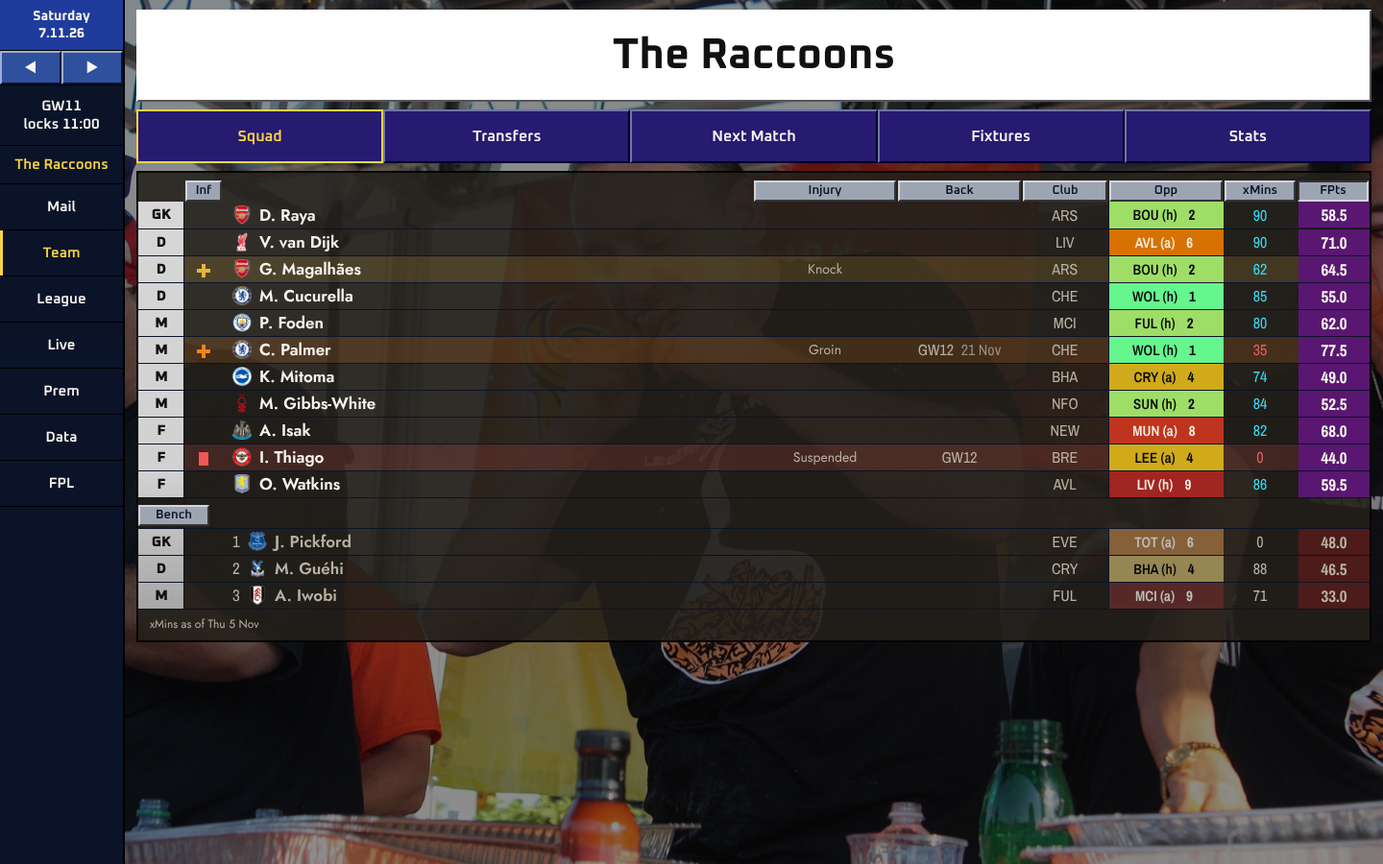
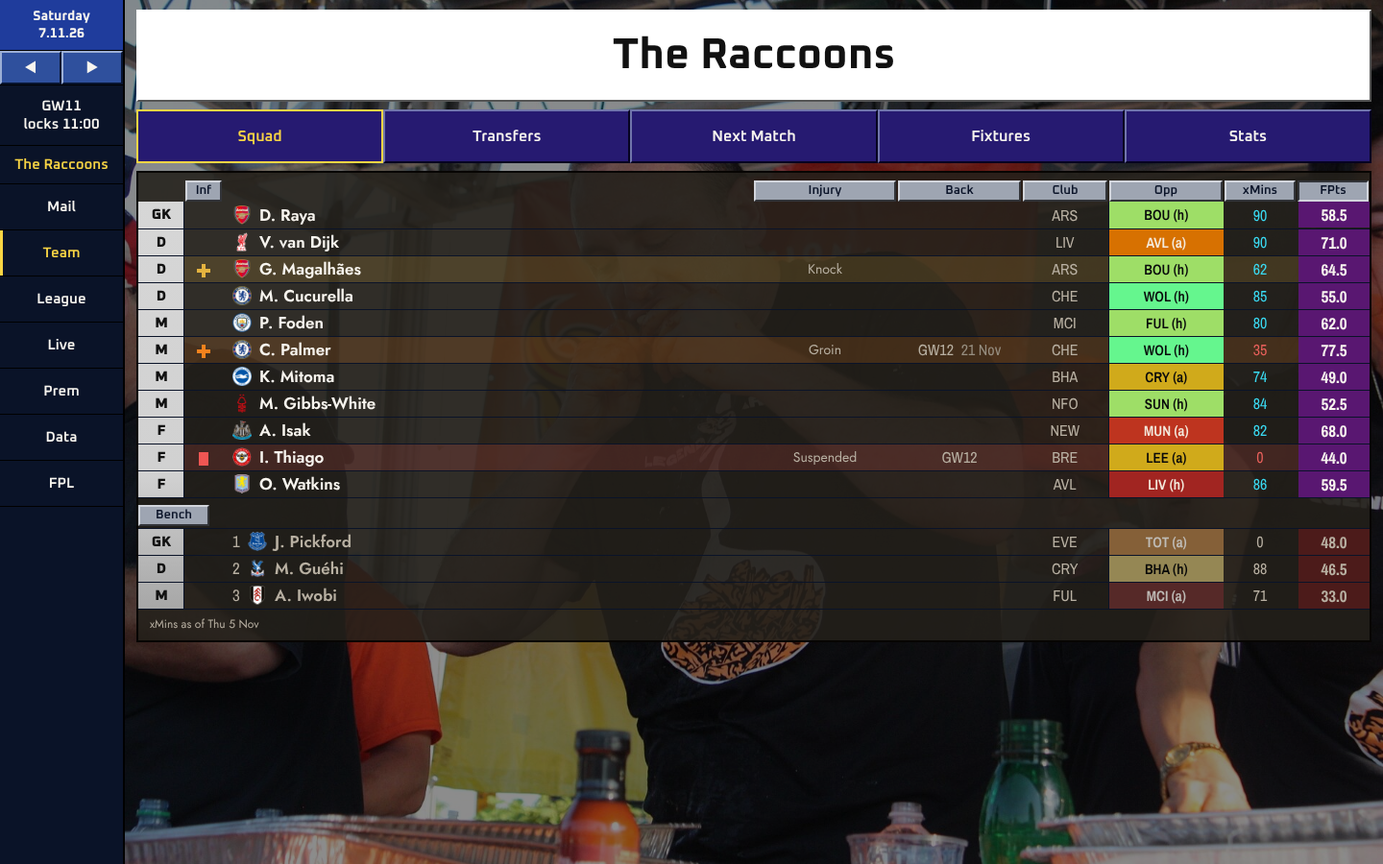
docs(design): a fixture tile is the club and h/a, no number
Craig, 7 Nov 2026: "Stop adding numbers to the fixture tile, team and h/a".
Both Squad boards: the rank is off the tile, the phone's tiles get h/a back,
and the difficulty's words go to the tile's title.

Claude-Session: https://claude.ai/code/session_014rg9sPGDLfmZnHAPNmxYbY

Changed region(s): [[0.8125, 0.2178, 0.875, 0.5911], [0.8125, 0.6222, 0.875, 0.7156]]

diff --git a/docs/design/boards/Squad.html b/docs/design/boards/Squad.html
@@ -107,6 +107,6 @@ tr.plate span { --face: var(--color-face); background: var(--face); --light: col
 </nav>
 <section class="panel squad"><div class="lead"><table>
 <colgroup><col style="width:48px"><col style="width:40px"><col><col style="width:150px"><col style="width:130px"><col style="width:90px"><col style="width:120px"><col style="width:76px"><col style="width:76px"></colgroup>
-<thead><tr><th scope="col"><span class="sr-only">Pos</span></th><th scope="col"><span class="bevel">Inf</span></th><th scope="col"><span class="sr-only">Player</span></th><th scope="col"><span class="bevel">Injury</span></th><th scope="col"><span class="bevel">Back</span></th><th scope="col"><span class="bevel">Club</span></th><th scope="col"><span class="bevel">Opp</span></th><th scope="col"><span class="bevel">xMins</span></th><th scope="col"><span class="bevel sorted">FPts</span></th></tr></thead><tbody><tr><td class="cm-index pos">GK</td><td class="inf"></td><td class="name"><img class="crest" src="../../../apps/companion/public/crests/t3.png" alt="">D. Raya</td><td class="note quiet"></td><td class="fig back quiet"></td><td class="club">ARS</td><td class="opp" title="BOU (h), easy" style="background:var(--color-ease-2);color:#08090b">BOU (h) <b class="rank">2</b></td><td class="fig info">90</td><td class="for"><b>58.5</b></td></tr><tr><td class="cm-index pos">D</td><td class="inf"></td><td class="name"><img class="crest" src="../../../apps/companion/public/crests/t14.png" alt="">V. van Dijk</td><td class="note quiet"></td><td class="fig back quiet"></td><td class="club">LIV</td><td class="opp" title="AVL (a), hard" style="background:var(--color-ease-6);color:var(--color-cream)">AVL (a) <b class="rank">6</b></td><td class="fig info">90</td><td class="for"><b>71.0</b></td></tr><tr style="background:oklch(0.79 0.14 85 / 0.16)"><td class="cm-index pos">D</td><td class="inf"><svg width="16" height="16" viewBox="0 0 16 16" role="img" aria-label="Slight doubt"><path d="M6 1h4v5h5v4h-5v5H6v-5H1V6h5z" fill="var(--color-doubt-slight)"/></svg></td><td class="name"><img class="crest" src="../../../apps/companion/public/crests/t3.png" alt="">G. Magalhães</td><td class="note quiet">Knock</td><td class="fig back quiet"></td><td class="club">ARS</td><td class="opp" title="BOU (h), easy" style="background:var(--color-ease-2);color:#08090b">BOU (h) <b class="rank">2</b></td><td class="fig info">62</td><td class="for"><b>64.5</b></td></tr><tr><td class="cm-index pos">D</td><td class="inf"></td><td class="name"><img class="crest" src="../../../apps/companion/public/crests/t8.png" alt="">M. Cucurella</td><td class="note quiet"></td><td class="fig back quiet"></td><td class="club">CHE</td><td class="opp" title="WOL (h), very easy" style="background:var(--color-ease-1);color:#08090b">WOL (h) <b class="rank">1</b></td><td class="fig info">85</td><td class="for"><b>55.0</b></td></tr><tr><td class="cm-index pos">M</td><td class="inf"></td><td class="name"><img class="crest" src="../../../apps/companion/public/crests/t43.png" alt="">P. Foden</td><td class="note quiet"></td><td class="fig back quiet"></td><td class="club">MCI</td><td class="opp" title="FUL (h), easy" style="background:var(--color-ease-2);color:#08090b">FUL (h) <b class="rank">2</b></td><td class="fig info">80</td><td class="for"><b>62.0</b></td></tr><tr style="background:oklch(0.72 0.17 55 / 0.16)"><td class="cm-index pos">M</td><td class="inf"><svg width="16" height="16" viewBox="0 0 16 16" role="img" aria-label="Doubtful"><path d="M6 1h4v5h5v4h-5v5H6v-5H1V6h5z" fill="var(--color-doubt-major)"/></svg></td><td class="name"><img class="crest" src="../../../apps/companion/public/crests/t8.png" alt="">C. Palmer</td><td class="note quiet">Groin</td><td class="fig back quiet">GW12 <span class="day">21 Nov</span></td><td class="club">CHE</td><td class="opp" title="WOL (h), very easy" style="background:var(--color-ease-1);color:#08090b">WOL (h) <b class="rank">1</b></td><td class="fig bad">35</td><td class="for"><b>77.5</b></td></tr><tr><td class="cm-index pos">M</td><td class="inf"></td><td class="name"><img class="crest" src="../../../apps/companion/public/crests/t36.png" alt="">K. Mitoma</td><td class="note quiet"></td><td class="fig back quiet"></td><td class="club">BHA</td><td class="opp" title="CRY (a), fair" style="background:var(--color-ease-4);color:#08090b">CRY (a) <b class="rank">4</b></td><td class="fig info">74</td><td class="for"><b>49.0</b></td></tr><tr><td class="cm-index pos">M</td><td class="inf"></td><td class="name"><img class="crest" src="../../../apps/companion/public/crests/t17.png" alt="">M. Gibbs-White</td><td class="note quiet"></td><td class="fig back quiet"></td><td class="club">NFO</td><td class="opp" title="SUN (h), easy" style="background:var(--color-ease-2);color:#08090b">SUN (h) <b class="rank">2</b></td><td class="fig info">84</td><td class="for"><b>52.5</b></td></tr><tr><td class="cm-index pos">F</td><td class="inf"></td><td class="name"><img class="crest" src="../../../apps/companion/public/crests/t4.png" alt="">A. Isak</td><td class="note quiet"></td><td class="fig back quiet"></td><td class="club">NEW</td><td class="opp" title="MUN (a), very hard" style="background:var(--color-ease-8);color:var(--color-cream)">MUN (a) <b class="rank">8</b></td><td class="fig info">82</td><td class="for"><b>68.0</b></td></tr><tr style="background:oklch(0.66 0.19 25 / 0.16)"><td class="cm-index pos">F</td><td class="inf"><svg width="12" height="16" viewBox="0 0 12 16" role="img" aria-label="Suspended"><rect x="1" y="1" width="10" height="14" fill="var(--color-doubt-out)"/></svg></td><td class="name"><img class="crest" src="../../../apps/companion/public/crests/t94.png" alt="">I. Thiago</td><td class="note quiet">Suspended</td><td class="fig back quiet">GW12</td><td class="club">BRE</td><td class="opp" title="LEE (a), fair" style="background:var(--color-ease-4);color:#08090b">LEE (a) <b class="rank">4</b></td><td class="fig bad">0</td><td class="for"><b>44.0</b></td></tr><tr><td class="cm-index pos">F</td><td class="inf"></td><td class="name"><img class="crest" src="../../../apps/companion/public/crests/t7.png" alt="">O. Watkins</td><td class="note quiet"></td><td class="fig back quiet"></td><td class="club">AVL</td><td class="opp" title="LIV (h), very hard" style="background:var(--color-ease-9);color:var(--color-cream)">LIV (h) <b class="rank">9</b></td><td class="fig info">86</td><td class="for"><b>59.5</b></td></tr><tr class="plate"><td colspan="9"><span class="bevel">Bench</span></td></tr><tr class="greyed"><td class="cm-index pos">GK</td><td class="inf"></td><td class="name"><span class="order">1</span><img class="crest" src="../../../apps/companion/public/crests/t11.png" alt="">J. Pickford</td><td class="note quiet"></td><td class="fig back quiet"></td><td class="club">EVE</td><td class="opp" title="TOT (a), hard" style="background:var(--color-ease-6);color:var(--color-cream)">TOT (a) <b class="rank">6</b></td><td class="fig quiet">0</td><td class="for"><b>48.0</b></td></tr><tr class="greyed"><td class="cm-index pos">D</td><td class="inf"></td><td class="name"><span class="order">2</span><img class="crest" src="../../../apps/companion/public/crests/t31.png" alt="">M. Guéhi</td><td class="note quiet"></td><td class="fig back quiet"></td><td class="club">CRY</td><td class="opp" title="BHA (h), fair" style="background:var(--color-ease-4);color:#08090b">BHA (h) <b class="rank">4</b></td><td class="fig quiet">88</td><td class="for"><b>46.5</b></td></tr><tr class="greyed"><td class="cm-index pos">M</td><td class="inf"></td><td class="name"><span class="order">3</span><img class="crest" src="../../../apps/companion/public/crests/t54.png" alt="">A. Iwobi</td><td class="note quiet"></td><td class="fig back quiet"></td><td class="club">FUL</td><td class="opp" title="MCI (a), very hard" style="background:var(--color-ease-9);color:var(--color-cream)">MCI (a) <b class="rank">9</b></td><td class="fig quiet">71</td><td class="for"><b>33.0</b></td></tr></tbody></table>
+<thead><tr><th scope="col"><span class="sr-only">Pos</span></th><th scope="col"><span class="bevel">Inf</span></th><th scope="col"><span class="sr-only">Player</span></th><th scope="col"><span class="bevel">Injury</span></th><th scope="col"><span class="bevel">Back</span></th><th scope="col"><span class="bevel">Club</span></th><th scope="col"><span class="bevel">Opp</span></th><th scope="col"><span class="bevel">xMins</span></th><th scope="col"><span class="bevel sorted">FPts</span></th></tr></thead><tbody><tr><td class="cm-index pos">GK</td><td class="inf"></td><td class="name"><img class="crest" src="../../../apps/companion/public/crests/t3.png" alt="">D. Raya</td><td class="note quiet"></td><td class="fig back quiet"></td><td class="club">ARS</td><td class="opp" title="BOU (h), easy" style="background:var(--color-ease-2);color:#08090b">BOU (h)</td><td class="fig info">90</td><td class="for"><b>58.5</b></td></tr><tr><td class="cm-index pos">D</td><td class="inf"></td><td class="name"><img class="crest" src="../../../apps/companion/public/crests/t14.png" alt="">V. van Dijk</td><td class="note quiet"></td><td class="fig back quiet"></td><td class="club">LIV</td><td class="opp" title="AVL (a), hard" style="background:var(--color-ease-6);color:var(--color-cream)">AVL (a)</td><td class="fig info">90</td><td class="for"><b>71.0</b></td></tr><tr style="background:oklch(0.79 0.14 85 / 0.16)"><td class="cm-index pos">D</td><td class="inf"><svg width="16" height="16" viewBox="0 0 16 16" role="img" aria-label="Slight doubt"><path d="M6 1h4v5h5v4h-5v5H6v-5H1V6h5z" fill="var(--color-doubt-slight)"/></svg></td><td class="name"><img class="crest" src="../../../apps/companion/public/crests/t3.png" alt="">G. Magalhães</td><td class="note quiet">Knock</td><td class="fig back quiet"></td><td class="club">ARS</td><td class="opp" title="BOU (h), easy" style="background:var(--color-ease-2);color:#08090b">BOU (h)</td><td class="fig info">62</td><td class="for"><b>64.5</b></td></tr><tr><td class="cm-index pos">D</td><td class="inf"></td><td class="name"><img class="crest" src="../../../apps/companion/public/crests/t8.png" alt="">M. Cucurella</td><td class="note quiet"></td><td class="fig back quiet"></td><td class="club">CHE</td><td class="opp" title="WOL (h), very easy" style="background:var(--color-ease-1);color:#08090b">WOL (h)</td><td class="fig info">85</td><td class="for"><b>55.0</b></td></tr><tr><td class="cm-index pos">M</td><td class="inf"></td><td class="name"><img class="crest" src="../../../apps/companion/public/crests/t43.png" alt="">P. Foden</td><td class="note quiet"></td><td class="fig back quiet"></td><td class="club">MCI</td><td class="opp" title="FUL (h), easy" style="background:var(--color-ease-2);color:#08090b">FUL (h)</td><td class="fig info">80</td><td class="for"><b>62.0</b></td></tr><tr style="background:oklch(0.72 0.17 55 / 0.16)"><td class="cm-index pos">M</td><td class="inf"><svg width="16" height="16" viewBox="0 0 16 16" role="img" aria-label="Doubtful"><path d="M6 1h4v5h5v4h-5v5H6v-5H1V6h5z" fill="var(--color-doubt-major)"/></svg></td><td class="name"><img class="crest" src="../../../apps/companion/public/crests/t8.png" alt="">C. Palmer</td><td class="note quiet">Groin</td><td class="fig back quiet">GW12 <span class="day">21 Nov</span></td><td class="club">CHE</td><td class="opp" title="WOL (h), very easy" style="background:var(--color-ease-1);color:#08090b">WOL (h)</td><td class="fig bad">35</td><td class="for"><b>77.5</b></td></tr><tr><td class="cm-index pos">M</td><td class="inf"></td><td class="name"><img class="crest" src="../../../apps/companion/public/crests/t36.png" alt="">K. Mitoma</td><td class="note quiet"></td><td class="fig back quiet"></td><td class="club">BHA</td><td class="opp" title="CRY (a), fair" style="background:var(--color-ease-4);color:#08090b">CRY (a)</td><td class="fig info">74</td><td class="for"><b>49.0</b></td></tr><tr><td class="cm-index pos">M</td><td class="inf"></td><td class="name"><img class="crest" src="../../../apps/companion/public/crests/t17.png" alt="">M. Gibbs-White</td><td class="note quiet"></td><td class="fig back quiet"></td><td class="club">NFO</td><td class="opp" title="SUN (h), easy" style="background:var(--color-ease-2);color:#08090b">SUN (h)</td><td class="fig info">84</td><td class="for"><b>52.5</b></td></tr><tr><td class="cm-index pos">F</td><td class="inf"></td><td class="name"><img class="crest" src="../../../apps/companion/public/crests/t4.png" alt="">A. Isak</td><td class="note quiet"></td><td class="fig back quiet"></td><td class="club">NEW</td><td class="opp" title="MUN (a), very hard" style="background:var(--color-ease-8);color:var(--color-cream)">MUN (a)</td><td class="fig info">82</td><td class="for"><b>68.0</b></td></tr><tr style="background:oklch(0.66 0.19 25 / 0.16)"><td class="cm-index pos">F</td><td class="inf"><svg width="12" height="16" viewBox="0 0 12 16" role="img" aria-label="Suspended"><rect x="1" y="1" width="10" height="14" fill="var(--color-doubt-out)"/></svg></td><td class="name"><img class="crest" src="../../../apps/companion/public/crests/t94.png" alt="">I. Thiago</td><td class="note quiet">Suspended</td><td class="fig back quiet">GW12</td><td class="club">BRE</td><td class="opp" title="LEE (a), fair" style="background:var(--color-ease-4);color:#08090b">LEE (a)</td><td class="fig bad">0</td><td class="for"><b>44.0</b></td></tr><tr><td class="cm-index pos">F</td><td class="inf"></td><td class="name"><img class="crest" src="../../../apps/companion/public/crests/t7.png" alt="">O. Watkins</td><td class="note quiet"></td><td class="fig back quiet"></td><td class="club">AVL</td><td class="opp" title="LIV (h), very hard" style="background:var(--color-ease-9);color:var(--color-cream)">LIV (h)</td><td class="fig info">86</td><td class="for"><b>59.5</b></td></tr><tr class="plate"><td colspan="9"><span class="bevel">Bench</span></td></tr><tr class="greyed"><td class="cm-index pos">GK</td><td class="inf"></td><td class="name"><span class="order">1</span><img class="crest" src="../../../apps/companion/public/crests/t11.png" alt="">J. Pickford</td><td class="note quiet"></td><td class="fig back quiet"></td><td class="club">EVE</td><td class="opp" title="TOT (a), hard" style="background:var(--color-ease-6);color:var(--color-cream)">TOT (a)</td><td class="fig quiet">0</td><td class="for"><b>48.0</b></td></tr><tr class="greyed"><td class="cm-index pos">D</td><td class="inf"></td><td class="name"><span class="order">2</span><img class="crest" src="../../../apps/companion/public/crests/t31.png" alt="">M. Guéhi</td><td class="note quiet"></td><td class="fig back quiet"></td><td class="club">CRY</td><td class="opp" title="BHA (h), fair" style="background:var(--color-ease-4);color:#08090b">BHA (h)</td><td class="fig quiet">88</td><td class="for"><b>46.5</b></td></tr><tr class="greyed"><td class="cm-index pos">M</td><td class="inf"></td><td class="name"><span class="order">3</span><img class="crest" src="../../../apps/companion/public/crests/t54.png" alt="">A. Iwobi</td><td class="note quiet"></td><td class="fig back quiet"></td><td class="club">FUL</td><td class="opp" title="MCI (a), very hard" style="background:var(--color-ease-9);color:var(--color-cream)">MCI (a)</td><td class="fig quiet">71</td><td class="for"><b>33.0</b></td></tr></tbody></table>
 <p class="asof quiet">xMins as of Thu 5 Nov</p></div></section>
 </main></div></body></html>

diff --git a/docs/design/boards/Squad-390.html b/docs/design/boards/Squad-390.html
@@ -121,5 +121,5 @@ tr.plate span { --face: var(--color-face); background: var(--face); --light: col
 <nav class="tabs" aria-label="The Raccoons"><span class="tab bevel" aria-current="page">Squad</span><span class="tab bevel">Transfers</span><span class="tab bevel">Next</span><span class="tab bevel">Fixtures</span><span class="tab bevel">Stats</span></nav>
 <section class="panel squad"><table>
 <colgroup><col style="width:34px"><col><col style="width:66px"><col style="width:40px"><col style="width:46px"></colgroup>
-<thead><tr><th><span class="sr-only">Pos</span></th><th><span class="sr-only">Player</span></th><th><span class="bevel">Opp</span></th><th><span class="bevel">xMins</span></th><th><span class="bevel sorted">FPts</span></th></tr></thead><tbody><tr><td class="cm-index pos">GK</td><td class="name"><span class="who"><img class="crest" src="../../../apps/companion/public/crests/t3.png" alt="">D. Raya</span></td><td class="opp" style="background:var(--color-ease-2);color:#08090b">BOU <b>2</b></td><td class="fig info">90</td><td class="for"><b>58.5</b></td></tr><tr><td class="cm-index pos">D</td><td class="name"><span class="who"><img class="crest" src="../../../apps/companion/public/crests/t14.png" alt="">V. van Dijk</span></td><td class="opp" style="background:var(--color-ease-6);color:var(--color-cream)">AVL <b>6</b></td><td class="fig info">90</td><td class="for"><b>71.0</b></td></tr><tr style="background:oklch(0.79 0.14 85 / 0.16)"><td class="cm-index pos">D</td><td class="name"><span class="who"><img class="crest" src="../../../apps/companion/public/crests/t3.png" alt="">G. Magalhães<svg width="14" height="14" viewBox="0 0 16 16" role="img" aria-label="Doubt"><path d="M6 1h4v5h5v4h-5v5H6v-5H1V6h5z" fill="var(--color-doubt-slight)"/></svg></span><span class="note">Knock</span></td><td class="opp" style="background:var(--color-ease-2);color:#08090b">BOU <b>2</b></td><td class="fig info">62</td><td class="for"><b>64.5</b></td></tr><tr><td class="cm-index pos">D</td><td class="name"><span class="who"><img class="crest" src="../../../apps/companion/public/crests/t8.png" alt="">M. Cucurella</span></td><td class="opp" style="background:var(--color-ease-1);color:#08090b">WOL <b>1</b></td><td class="fig info">85</td><td class="for"><b>55.0</b></td></tr><tr><td class="cm-index pos">M</td><td class="name"><span class="who"><img class="crest" src="../../../apps/companion/public/crests/t43.png" alt="">P. Foden</span></td><td class="opp" style="background:var(--color-ease-2);color:#08090b">FUL <b>2</b></td><td class="fig info">80</td><td class="for"><b>62.0</b></td></tr><tr style="background:oklch(0.72 0.17 55 / 0.16)"><td class="cm-index pos">M</td><td class="name"><span class="who"><img class="crest" src="../../../apps/companion/public/crests/t8.png" alt="">C. Palmer<svg width="14" height="14" viewBox="0 0 16 16" role="img" aria-label="Doubt"><path d="M6 1h4v5h5v4h-5v5H6v-5H1V6h5z" fill="var(--color-doubt-major)"/></svg></span><span class="note">Groin <b>GW12</b></span></td><td class="opp" style="background:var(--color-ease-1);color:#08090b">WOL <b>1</b></td><td class="fig bad">35</td><td class="for"><b>77.5</b></td></tr><tr><td class="cm-index pos">M</td><td class="name"><span class="who"><img class="crest" src="../../../apps/companion/public/crests/t36.png" alt="">K. Mitoma</span></td><td class="opp" style="background:var(--color-ease-4);color:#08090b">CRY <b>4</b></td><td class="fig info">74</td><td class="for"><b>49.0</b></td></tr><tr><td class="cm-index pos">M</td><td class="name"><span class="who"><img class="crest" src="../../../apps/companion/public/crests/t17.png" alt="">M. Gibbs-White</span></td><td class="opp" style="background:var(--color-ease-2);color:#08090b">SUN <b>2</b></td><td class="fig info">84</td><td class="for"><b>52.5</b></td></tr><tr><td class="cm-index pos">F</td><td class="name"><span class="who"><img class="crest" src="../../../apps/companion/public/crests/t4.png" alt="">A. Isak</span></td><td class="opp" style="background:var(--color-ease-8);color:var(--color-cream)">MUN <b>8</b></td><td class="fig info">82</td><td class="for"><b>68.0</b></td></tr><tr style="background:oklch(0.66 0.19 25 / 0.16)"><td class="cm-index pos">F</td><td class="name"><span class="who"><img class="crest" src="../../../apps/companion/public/crests/t94.png" alt="">I. Thiago<svg width="10" height="14" viewBox="0 0 12 16" role="img" aria-label="Suspended"><rect x="1" y="1" width="10" height="14" fill="var(--color-doubt-out)"/></svg></span><span class="note">Suspended <b>GW12</b></span></td><td class="opp" style="background:var(--color-ease-4);color:#08090b">LEE <b>4</b></td><td class="fig bad">0</td><td class="for"><b>44.0</b></td></tr><tr><td class="cm-index pos">F</td><td class="name"><span class="who"><img class="crest" src="../../../apps/companion/public/crests/t7.png" alt="">O. Watkins</span></td><td class="opp" style="background:var(--color-ease-9);color:var(--color-cream)">LIV <b>9</b></td><td class="fig info">86</td><td class="for"><b>59.5</b></td></tr><tr class="plate"><td colspan="5"><span class="bevel">Bench</span></td></tr><tr class="greyed"><td class="cm-index pos">GK</td><td class="name"><span class="who"><span class="order">1</span><img class="crest" src="../../../apps/companion/public/crests/t11.png" alt="">J. Pickford</span></td><td class="opp" style="background:var(--color-ease-6);color:var(--color-cream)">TOT <b>6</b></td><td class="fig quiet">0</td><td class="for"><b>48.0</b></td></tr><tr class="greyed"><td class="cm-index pos">D</td><td class="name"><span class="who"><span class="order">2</span><img class="crest" src="../../../apps/companion/public/crests/t31.png" alt="">M. Guéhi</span></td><td class="opp" style="background:var(--color-ease-4);color:#08090b">BHA <b>4</b></td><td class="fig quiet">88</td><td class="for"><b>46.5</b></td></tr><tr class="greyed"><td class="cm-index pos">M</td><td class="name"><span class="who"><span class="order">3</span><img class="crest" src="../../../apps/companion/public/crests/t54.png" alt="">A. Iwobi</span></td><td class="opp" style="background:var(--color-ease-9);color:var(--color-cream)">MCI <b>9</b></td><td class="fig quiet">71</td><td class="for"><b>33.0</b></td></tr></tbody></table>
+<thead><tr><th><span class="sr-only">Pos</span></th><th><span class="sr-only">Player</span></th><th><span class="bevel">Opp</span></th><th><span class="bevel">xMins</span></th><th><span class="bevel sorted">FPts</span></th></tr></thead><tbody><tr><td class="cm-index pos">GK</td><td class="name"><span class="who"><img class="crest" src="../../../apps/companion/public/crests/t3.png" alt="">D. Raya</span></td><td class="opp" title="BOU (h), difficulty 2 of 10" style="background:var(--color-ease-2);color:#08090b">BOU (h)</td><td class="fig info">90</td><td class="for"><b>58.5</b></td></tr><tr><td class="cm-index pos">D</td><td class="name"><span class="who"><img class="crest" src="../../../apps/companion/public/crests/t14.png" alt="">V. van Dijk</span></td><td class="opp" title="AVL (a), difficulty 6 of 10" style="background:var(--color-ease-6);color:var(--color-cream)">AVL (a)</td><td class="fig info">90</td><td class="for"><b>71.0</b></td></tr><tr style="background:oklch(0.79 0.14 85 / 0.16)"><td class="cm-index pos">D</td><td class="name"><span class="who"><img class="crest" src="../../../apps/companion/public/crests/t3.png" alt="">G. Magalhães<svg width="14" height="14" viewBox="0 0 16 16" role="img" aria-label="Doubt"><path d="M6 1h4v5h5v4h-5v5H6v-5H1V6h5z" fill="var(--color-doubt-slight)"/></svg></span><span class="note">Knock</span></td><td class="opp" title="BOU (h), difficulty 2 of 10" style="background:var(--color-ease-2);color:#08090b">BOU (h)</td><td class="fig info">62</td><td class="for"><b>64.5</b></td></tr><tr><td class="cm-index pos">D</td><td class="name"><span class="who"><img class="crest" src="../../../apps/companion/public/crests/t8.png" alt="">M. Cucurella</span></td><td class="opp" title="WOL (h), difficulty 1 of 10" style="background:var(--color-ease-1);color:#08090b">WOL (h)</td><td class="fig info">85</td><td class="for"><b>55.0</b></td></tr><tr><td class="cm-index pos">M</td><td class="name"><span class="who"><img class="crest" src="../../../apps/companion/public/crests/t43.png" alt="">P. Foden</span></td><td class="opp" title="FUL (h), difficulty 2 of 10" style="background:var(--color-ease-2);color:#08090b">FUL (h)</td><td class="fig info">80</td><td class="for"><b>62.0</b></td></tr><tr style="background:oklch(0.72 0.17 55 / 0.16)"><td class="cm-index pos">M</td><td class="name"><span class="who"><img class="crest" src="../../../apps/companion/public/crests/t8.png" alt="">C. Palmer<svg width="14" height="14" viewBox="0 0 16 16" role="img" aria-label="Doubt"><path d="M6 1h4v5h5v4h-5v5H6v-5H1V6h5z" fill="var(--color-doubt-major)"/></svg></span><span class="note">Groin <b>GW12</b></span></td><td class="opp" title="WOL (h), difficulty 1 of 10" style="background:var(--color-ease-1);color:#08090b">WOL (h)</td><td class="fig bad">35</td><td class="for"><b>77.5</b></td></tr><tr><td class="cm-index pos">M</td><td class="name"><span class="who"><img class="crest" src="../../../apps/companion/public/crests/t36.png" alt="">K. Mitoma</span></td><td class="opp" title="CRY (a), difficulty 4 of 10" style="background:var(--color-ease-4);color:#08090b">CRY (a)</td><td class="fig info">74</td><td class="for"><b>49.0</b></td></tr><tr><td class="cm-index pos">M</td><td class="name"><span class="who"><img class="crest" src="../../../apps/companion/public/crests/t17.png" alt="">M. Gibbs-White</span></td><td class="opp" title="SUN (h), difficulty 2 of 10" style="background:var(--color-ease-2);color:#08090b">SUN (h)</td><td class="fig info">84</td><td class="for"><b>52.5</b></td></tr><tr><td class="cm-index pos">F</td><td class="name"><span class="who"><img class="crest" src="../../../apps/companion/public/crests/t4.png" alt="">A. Isak</span></td><td class="opp" title="MUN (a), difficulty 8 of 10" style="background:var(--color-ease-8);color:var(--color-cream)">MUN (a)</td><td class="fig info">82</td><td class="for"><b>68.0</b></td></tr><tr style="background:oklch(0.66 0.19 25 / 0.16)"><td class="cm-index pos">F</td><td class="name"><span class="who"><img class="crest" src="../../../apps/companion/public/crests/t94.png" alt="">I. Thiago<svg width="10" height="14" viewBox="0 0 12 16" role="img" aria-label="Suspended"><rect x="1" y="1" width="10" height="14" fill="var(--color-doubt-out)"/></svg></span><span class="note">Suspended <b>GW12</b></span></td><td class="opp" title="LEE (a), difficulty 4 of 10" style="background:var(--color-ease-4);color:#08090b">LEE (a)</td><td class="fig bad">0</td><td class="for"><b>44.0</b></td></tr><tr><td class="cm-index pos">F</td><td class="name"><span class="who"><img class="crest" src="../../../apps/companion/public/crests/t7.png" alt="">O. Watkins</span></td><td class="opp" title="LIV (h), difficulty 9 of 10" style="background:var(--color-ease-9);color:var(--color-cream)">LIV (h)</td><td class="fig info">86</td><td class="for"><b>59.5</b></td></tr><tr class="plate"><td colspan="5"><span class="bevel">Bench</span></td></tr><tr class="greyed"><td class="cm-index pos">GK</td><td class="name"><span class="who"><span class="order">1</span><img class="crest" src="../../../apps/companion/public/crests/t11.png" alt="">J. Pickford</span></td><td class="opp" title="TOT (a), difficulty 6 of 10" style="background:var(--color-ease-6);color:var(--color-cream)">TOT (a)</td><td class="fig quiet">0</td><td class="for"><b>48.0</b></td></tr><tr class="greyed"><td class="cm-index pos">D</td><td class="name"><span class="who"><span class="order">2</span><img class="crest" src="../../../apps/companion/public/crests/t31.png" alt="">M. Guéhi</span></td><td class="opp" title="BHA (h), difficulty 4 of 10" style="background:var(--color-ease-4);color:#08090b">BHA (h)</td><td class="fig quiet">88</td><td class="for"><b>46.5</b></td></tr><tr class="greyed"><td class="cm-index pos">M</td><td class="name"><span class="who"><span class="order">3</span><img class="crest" src="../../../apps/companion/public/crests/t54.png" alt="">A. Iwobi</span></td><td class="opp" title="MCI (a), difficulty 9 of 10" style="background:var(--color-ease-9);color:var(--color-cream)">MCI (a)</td><td class="fig quiet">71</td><td class="for"><b>33.0</b></td></tr></tbody></table>
 <p class="asof quiet">xMins as of Thu 5 Nov</p></section></div><nav class="thumb" aria-label="Sections"><a href="#"><svg viewBox="0 0 24 24" aria-hidden="true"><path d="M3 6h18v12H3z M3 6l9 7 9-7" fill="none" stroke="currentColor" stroke-width="2"/></svg><span>Read</span></a><a href="#" aria-current="page"><svg viewBox="0 0 24 24" aria-hidden="true"><path d="M8 3l-5 3 2 4 2-1v12h10V9l2 1 2-4-5-3c-1 2-2 3-4 3s-3-1-4-3z" fill="none" stroke="currentColor" stroke-width="2"/></svg><span>Team</span></a><a href="#"><svg viewBox="0 0 24 24" aria-hidden="true"><circle cx="12" cy="12" r="4" fill="currentColor"/><circle cx="12" cy="12" r="8" fill="none" stroke="currentColor" stroke-width="2"/></svg><span>Live</span></a><a href="#"><svg viewBox="0 0 24 24" aria-hidden="true"><path d="M7 4h10v5a5 5 0 01-10 0z M12 14v4 M8 20h8 M7 6H4v2a3 3 0 003 3 M17 6h3v2a3 3 0 01-3 3" fill="none" stroke="currentColor" stroke-width="2"/></svg><span>Draft</span></a><a href="#"><svg viewBox="0 0 24 24" aria-hidden="true"><circle cx="12" cy="12" r="9" fill="none" stroke="currentColor" stroke-width="2"/><path d="M12 7l4 3-1.5 5h-5L8 10z" fill="currentColor"/></svg><span>Prem</span></a><a href="#"><svg viewBox="0 0 24 24" aria-hidden="true"><path d="M4 20V10 M10 20V4 M16 20v-7 M22 20H2" fill="none" stroke="currentColor" stroke-width="2"/></svg><span>Data</span></a></nav></body></html>

diff --git a/docs/design/boards/README.md b/docs/design/boards/README.md
@@ -16,7 +16,7 @@ clear-cut findings are fixed below. The rest are Craig's calls.
 rules: the rail along the foot with Live in it, 44px tabs, a strip's labels on their short word (`Stats`) so none
 wraps, the table ending on `Pts` with short names and `Ag`/`Form` standing down, 44px rows where a row is tapped,
 your own team's bar off the phone so the list has the room, the squad's complaint and return under the name, and the
-opponent with his rank in 66px. Neither scrolls sideways; both lint clean.
+opponent as club and h/a in 66px. Neither scrolls sideways; both lint clean.
 
 ## What the reskin changes
 
@@ -54,7 +54,9 @@ token and DESIGN rows; nothing in the app changes until then.
 3. **The desk fills 1440**; the paper keeps its frame, and the name column is capped (360px on a table, 300 on a
    squad) so the figures stay near the names.
 4. **`◄ ►` only where a screen has a gameweek**: the Squad's rail has them, the season table's doesn't.
-5. **The opponent's rank is printed** beside his code, so colour never carries difficulty alone.
+5. **A fixture tile is the club and h/a, and nothing else** (Craig, 7 Nov 2026: *"Stop adding numbers to the
+   fixture tile, team and h/a"*). The difficulty is the tile's colour; its words, "difficulty 2 of 10", are the
+   tile's title for a screen reader.
 6. **A near-black team takes its second colour** for the bar and the index spine: The Raccoons' bar is white with
    black ink, CM's own competition plate (`cm9900/24.jpg`).
 7. **A banned man's xMins stays `0`**: a known figure, not an absence.
